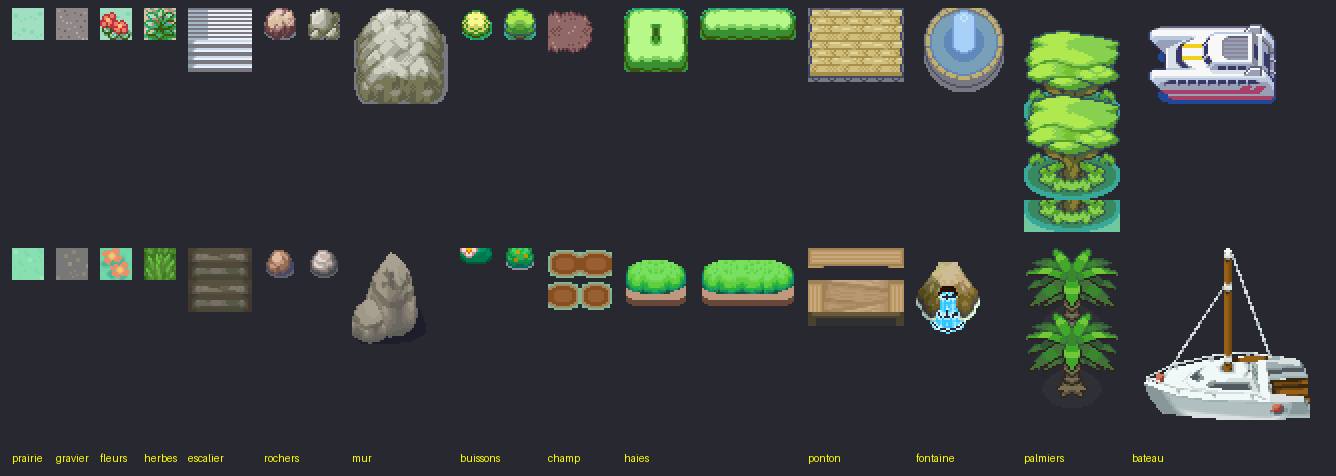
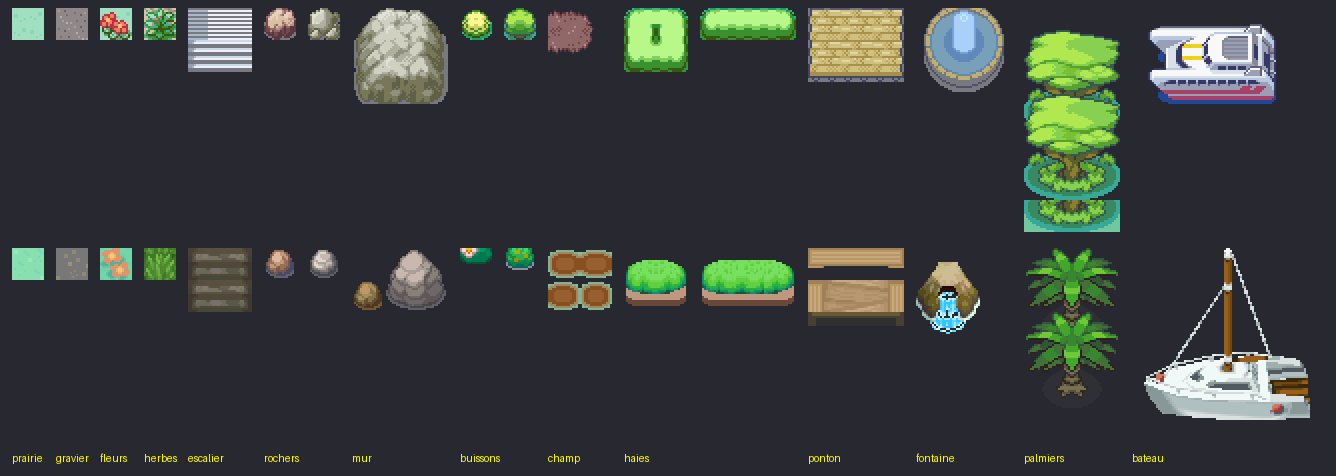
Mur de rochers 4G entier, exemples de MapGen et MapEvents retirés (#262)
Le rocher 3x3 de SirMalo a une ombre qui dépasse de son cadre et chevauche
le rocher suivant du mur : R devient le gros rocher gris 3x2, entier.
Les plans d'exemple de MapGen et MapEvents (démos de syntaxe) ne servent
pas au jeu : supprimés.

Claude-Session: https://claude.ai/code/session_01LwGj9cRCvqc5ubBPNNC54P

Changed region(s): [[0.2455, 0.5294, 0.3376, 0.7353]]

diff --git a/tools/art/replace_non4g.py b/tools/art/replace_non4g.py
@@ -9,7 +9,8 @@ Essentials). See docs/art/inventaire-4g.md.
   (trees, cliffs, tall grass, see GROUNDS in outside_4g.py) took the old
   ground in their see-through places and shadows; those pixels take the new
   ground, by place, darkened the same.
-- Drawings of another size are added below the tileset (hedges, tropical
+- Drawings of another size, or bigger than their block, are added below the
+  tileset, whole (hedges, rock wall, tropical
   tree, boat); the script prints their [Objects] lines.
 
 Sources (docs/CREDITS.md), not in the repository: SirMalo's sheets
@@ -47,9 +48,6 @@ TILES = {
     769: ("C", 6, 12), 770: ("C", 7, 12), 777: ("C", 6, 12), 778: ("C", 7, 12),
     # Pebble, rocks (over the ground)
     815: ("N", 3, 0, 27), 831: ("N", 3, 5, 34), 911: ("J", 0, 44),
-    # Rock wall R (3x3): the tall grey rock, for both of its colours
-    **{784 + dy * 8 + dx: ("N", 3, 5 + dx, 28 + dy) for dy in range(3) for dx in range(3)},
-    **{864 + dy * 8 + dx: ("N", 3, 5 + dx, 28 + dy) for dy in range(3) for dx in range(3)},
     # Yellow bush, tropical bush (over the ground)
     523: ("N", 3, 6, 17), 606: ("N", 3, 1, 17),
     # Ploughed field (2x2): four patches of soil
@@ -71,14 +69,17 @@ ON_GROUND = 24
 LAST_ON_GROUND = 5800
 SHADES = (1.0, 0.9, 0.8, 0.6)
 
-# Drawings added below the tileset: name => (tiles: rows of sources, block
-# x, y, width, height in the drawing, passages of the block, symbol)
+# Drawings added below the tileset, whole: name => (tiles: rows of sources,
+# block x, y, width, height in the drawing, passages of the block, symbol).
+# The halo above the block is drawn over the player, a row below it (only
+# shadow) under him.
 DRAWINGS = {
     "haie carrée": ([[("N", 3, 0, 24), ("N", 3, 4, 24)], [("N", 3, 0, 25), ("N", 3, 4, 25)]], (0, 0, 2, 2), 669, "î"),
     "haie": ([[("N", 3, 0, 24), ("N", 3, 1, 24), ("N", 3, 4, 24)],
               [("N", 3, 0, 25), ("N", 3, 1, 25), ("N", 3, 4, 25)]], (0, 1, 3, 1), 685, "û"),
     "palmier": ([[("J", x, y) for x in (4, 5, 6)] for y in range(41, 46)], (0, 0, 3, 5), SOLID, "ç"),
     "voilier": ([[("B", 10, x, y) for x in range(6)] for y in range(71, 77)], (0, 3, 6, 3), 1097, "b"),
+    "rocher": ([[("N", 3, x, y) for x in (2, 3, 4)] for y in (33, 34)], (0, 0, 3, 2), 784, "R"),
 }
 
 
@@ -149,7 +150,7 @@ def main():
                 inside = bx <= dx < bx + bw and by <= dy < by + bh
                 if not inside and not tile.getbbox():
                     empty.append(dy * len(row) + dx)
-                copies[str(first + (row0 + dy) * 8 + dx)] = passages if inside else TALL
+                copies[str(first + (row0 + dy) * 8 + dx)] = passages if inside else -1 if dy >= by + bh else TALL
         w, h = len(tiles[0]), len(tiles)
         block = first + (row0 + by) * 8 + bx
         halo = "" if (w, h) == (bw, bh) else f" halo={w}x{h}@{bx},{by}" + (f"/{','.join(map(str, empty))}" if empty else "")

diff --git a/docs/FEATURES.md b/docs/FEATURES.md
@@ -63,7 +63,7 @@
 ## F03. Générateur de cartes (MapGen)
 **Statut :** v1.14.0, écrit, testé hors jeu sur les données du dépôt, **non testé en jeu**.
 **Version cible :** Essentials v21.1.
-**Dossier :** `Plugins/MapGenerator/`, plans dans `MapGen/*.txt` (exemples : `MapGen/exemple.txt`, `MapGen/exemple_calques.txt`, `MapGen/exemple_porte_dehors.txt` + `MapGen/exemple_porte_maison.txt`, `MapGen/place_ville.txt`, plan du monde `MapGen/exemple_monde.txt`).
+**Dossier :** `Plugins/MapGenerator/`, plans écrits à la main dans `MapGen/*.txt` (le dossier n'existe pas tant qu'on n'y met pas de plan ; les exemples ont été retirés par #262, MapProc écrivant ses propres plans).
 
 ### Fonctionnement
 - Un plan texte décrit la carte : un caractère par case, une légende qui associe chaque caractère à 1 à 3 calques.
@@ -188,7 +188,7 @@ Alias de `Game_Map#display_x=` et `display_y=` (caméra aux bords) et de `MapFac
 ## F06. Placeur d'événements (MapEvents)
 **Statut :** v1.5.0, écrit, **non testé en jeu** (conversion testée hors jeu avec le compilateur réel d'Essentials).
 **Version cible :** Essentials v21.1. Plugin séparé de MapGen (aucune dépendance obligatoire).
-**Dossier :** `Plugins/MapEvents/`, plans dans `MapEvents/*.txt` (exemple : `MapEvents/exemple.txt`, sur la carte de `MapGen/exemple.txt`).
+**Dossier :** `Plugins/MapEvents/`, plans écrits à la main dans `MapEvents/*.txt` (exemple retiré par #262 : WorldEvents écrit les événements des mondes générés).
 
 ### Règles
 - **Un plan par carte :** `Map = Route 1` (nom dans l'arbre des cartes, ou ID). `BGM = Route 1` (facultatif, `nom[,volume[,hauteur]]`) règle la musique de la carte.
@@ -936,7 +936,7 @@ Une partie doit pouvoir se finir vite (issue #30). Tous les réglages sont dans 
 - **Interface 4G, cadres (#196, Interface4G v1.0.0) :** les fenêtres de texte étaient déjà celles de HGSS (`speech hgss 1` par défaut). Le plugin `Interface4G` met en tête des cadres de menu le cadre DPPt d'Essentials (`MENU_FRAME = "choice dp"`, ajouté au début de `Settings::MENU_WINDOWSKINS` : une nouvelle partie le prend, l'écran Options propose toujours les autres). Le panneau du nom de lieu prend le panneau HGSS de son genre de lieu (`SIGN_FRAMES`, d'après le genre de la carte dans l'inventaire de MapProc) : bois pour une ville, un village ou une île (`sign hgss town`), vert pour une route (`sign hgss dir`), gris pour une grotte (`sign hgss loc`), bleu ailleurs (`SIGN_DEFAULT = "sign hgss tt"`). Tous ces cadres sont déjà dans `Graphics/Windowskins` : aucun pack à crédits. La CI (`check_plugins`) vérifie que chaque cadre choisi existe. Le reste (sac, équipe, résumé, carte dresseur, carte de région, Options, sauvegarde) attend les packs listés dans `docs/research/interface-4g.md`. Une partie déjà sauvegardée garde son numéro de cadre : il désigne maintenant le cadre d'avant dans la liste.
 - **Inventaire des tuiles 4G (#262) :** `tools/art/inventory_4g.py` retrouve chaque tuile des packs 4G dans les graphismes du jeu (75 % des pixels dessinés identiques, transparences ignorées) et dessine, pour chaque planche, un aperçu par carrés de 8×8 (grisé : déjà dans le jeu ; cadre rouge : surtout inutilisé). Résultat et usages proposés dans `docs/art/inventaire-4g.md`. 142 tuiles d'`Outside.png` restent dessinées par la génération (prairie, gravier, escaliers, rochers, haies, ponton, fontaine, bateau, arbre tropical, champ) : il faut les remplacer avant de retirer les tilesets non 4G.
 - **Suppression des tilesets non 4G (#262) :** les 25 cartes extérieures de la démo d'Essentials sont retirées (routes, grottes, Safari, bateau…), avec leurs rencontres, connexions, points de vol et métadonnées. La carte 31 devient « Modèles d'événements » (tileset 24, 8×4) et garde les trois obstacles des recoins (arbre, rocher fissuré, rocher à pousser). Les tilesets 1 Outside, 2 Outside waterfall, 6 Caves, 7 Dungeon cave, 9 Boat, 21 Underground Path, 22 Underwater et 23 Dungeon forest sont vidés dans `Tilesets.rxdata`, et leurs images supprimées. MapGen utilise le tileset 24 (Outside 4G) par défaut, ainsi que ses exemples. `outside_4g.py`, `seabed_4g.py`, `caves_4g.py` et `import_props.py` ne peuvent plus être relancés depuis zéro : ils gardent l'historique des tuiles.
-- **Dernières tuiles non 4G (#262) :** `tools/art/replace_non4g.py` remplace les 142 tuiles non 4G que MapProc dessinait encore (`docs/art/inventaire-4g/remplacements.png`). Sur place (mêmes numéros, mêmes passages) : sol de la prairie et gravier des ambiances minérales (SirMalo ; les arbres, falaises et herbes dessinés sur ces sols reprennent le nouveau sol à la place de l'ancien, ombres comprises), fleurs, hautes herbes des montagnes, rochers et mur de rochers `R`, buissons `â ï`, champ `ô`, ponton `|` et son rebord `( _ )`, escaliers de pierre (Remastered, aucun chez SirMalo). Ajoutés sous le tileset : haie carrée `î` (2×2) et haie `û` (3×1, son dessus passe devant le joueur), une seule pour tous les sols ; palmiers `ç` (3×5 au lieu de 3×7, briques `arbre_tropical` et `canopee` redimensionnées) ; voilier `b` (6×3, son mât en halo). La fontaine de la place `f` devient la fontaine 4G de #200 (2×3). La rue de la prairie prend les dalles grises (ville) ou le chemin de terre (route) ; les rives des ambiances, jamais dessinées sous l'eau 4G (`EauBordee`), prennent leur sol. Les exemples de `MapGen/` gardent encore des tuiles d'Essentials.
+- **Dernières tuiles non 4G (#262) :** `tools/art/replace_non4g.py` remplace les 142 tuiles non 4G que MapProc dessinait encore (`docs/art/inventaire-4g/remplacements.png`). Sur place (mêmes numéros, mêmes passages) : sol de la prairie et gravier des ambiances minérales (SirMalo ; les arbres, falaises et herbes dessinés sur ces sols reprennent le nouveau sol à la place de l'ancien, ombres comprises), fleurs, hautes herbes des montagnes, rochers, buissons `â ï`, champ `ô`, ponton `|` et son rebord `( _ )`, escaliers de pierre (Remastered, aucun chez SirMalo). Ajoutés sous le tileset : haie carrée `î` (2×2) et haie `û` (3×1, son dessus passe devant le joueur), une seule pour tous les sols ; palmiers `ç` (3×5 au lieu de 3×7, briques `arbre_tropical` et `canopee` redimensionnées) ; voilier `b` (6×3, son mât en halo) ; mur de rochers `R` (un rocher 3×2 entier au lieu d'un bloc 3×3 : le rocher 3×3 de SirMalo a une ombre qui dépasse et chevauche le rocher suivant du mur). Chaque dessin ajouté est entier dans son cadre. La fontaine de la place `f` devient la fontaine 4G de #200 (2×3). La rue de la prairie prend les dalles grises (ville) ou le chemin de terre (route) ; les rives des ambiances, jamais dessinées sous l'eau 4G (`EauBordee`), prennent leur sol. Les exemples de `MapGen/` et `MapEvents/` (démos de syntaxe, inutiles au jeu) sont supprimés.
 - **Pas encore remplacé :** escaliers (pas d'escalier de roche dans les feuilles HGSS), fontaine de la place (pas de fontaine dans les feuilles HGSS), rues de terre battue et de prairie, autres bâtiments (bateau : pas de petit bateau dans les feuilles de SirMalo ; cartes de ville), rives sous l'eau (`Rive`), fontaine (A7), objets importés…, jusqu'aux tickets suivants de #177.
 - Les cartes déjà générées gardent l'ancien tileset : regénérer le monde (nouvelle partie ou menu debug).
 
@@ -1171,4 +1171,4 @@ Le tileset des grottes se reconstruit à part (il recopie le tileset 7 vers l'ID
 | 11/11/2026 | Postgame (#106) : Arceus allume `POSTGAME_SWITCH` (65), plus de plafond de niveau, revanche de chaque lieutenant (6 Pokémon de son type au niveau d'Arceus, cadeau), clé `Rematch` de MapEvents ; WorldEvents v1.37.0, MapEvents v1.9.0, LevelCap v1.2.0 | `Plugins/MapEvents/002_Parser.rb`, `003_Events.rb`, `meta.txt`, `Plugins/WorldEvents/001_Settings.rb`, `003_World.rb`, `005_Gyms.rb`, `008_Runtime.rb`, `009_Write.rb`, `meta.txt`, `Plugins/LevelCap/*`, `MapProc/Lore/dialogues.txt`, `tools/ci/check_world_events.rb`, `docs/FEATURES.md` |
 | 11/11/2026 | Inventaire des tuiles 4G inexploitées (#262) : script `tools/art/inventory_4g.py`, aperçus par planche et usages proposés, liste des 142 tuiles non 4G encore utilisées par la génération | `tools/art/inventory_4g.py`, `docs/art/inventaire-4g.md`, `docs/art/inventaire-4g/`, `docs/FEATURES.md` |
 | 11/11/2026 | Suppression des tilesets non 4G (#262) : 25 cartes extérieures de la démo retirées, carte 31 « Modèles d'événements » pour les obstacles des recoins, tilesets 1, 2, 6, 7, 9, 21, 22, 23 vidés et leurs images supprimées, MapGen sur le tileset 24 par défaut ; MapProceduralGenerator v0.81.1, MapGenerator v1.19.0 | `Data/Map*.rxdata`, `Data/MapInfos.rxdata`, `Data/Tilesets.rxdata`, `Graphics/Tilesets/*`, `PBS/map_metadata.txt`, `encounters.txt`, `map_connections.txt`, `dungeon_tilesets.txt`, `town_map.txt`, `Plugins/MapProceduralGenerator/001_Settings.rb`, `Plugins/MapGenerator/006_World.rb`, `MapGen/*.txt`, `tools/art/*_4g.py`, `tools/art/import_props.py`, `docs/FEATURES.md`, `docs/art/inventaire-4g.md` |
-| 11/11/2026 | Dernières tuiles non 4G remplacées (#262) : script `tools/art/replace_non4g.py`, sols prairie et gravier, rochers, buissons, champ, ponton, escaliers en place ; haies, palmiers et voilier ajoutés ; fontaine 4G sur la place ; MapProceduralGenerator v0.81.2 | `tools/art/replace_non4g.py`, `Graphics/Tilesets/Outside 4G.png`, `Data/Tilesets.rxdata`, `MapProc/route.txt`, `MapProc/ville.txt`, `MapProc/Briques/arbre_tropical.txt`, `canopee.txt`, `Plugins/MapProceduralGenerator/meta.txt`, `docs/CREDITS.md`, `docs/art/inventaire-4g.md`, `docs/art/inventaire-4g/remplacements.png`, `docs/FEATURES.md` |
+| 11/11/2026 | Dernières tuiles non 4G remplacées (#262) : script `tools/art/replace_non4g.py`, sols prairie et gravier, rochers, buissons, champ, ponton, escaliers en place ; haies, palmiers, voilier et rocher ajoutés ; fontaine 4G sur la place ; exemples de MapGen et MapEvents supprimés ; MapProceduralGenerator v0.81.2 | `tools/art/replace_non4g.py`, `Graphics/Tilesets/Outside 4G.png`, `Data/Tilesets.rxdata`, `MapProc/route.txt`, `MapProc/ville.txt`, `MapProc/Briques/arbre_tropical.txt`, `canopee.txt`, `Plugins/MapProceduralGenerator/meta.txt`, `docs/CREDITS.md`, `docs/art/inventaire-4g.md`, `docs/art/inventaire-4g/remplacements.png`, `MapGen/*.txt`, `MapEvents/exemple.txt`, `docs/FEATURES.md` |
